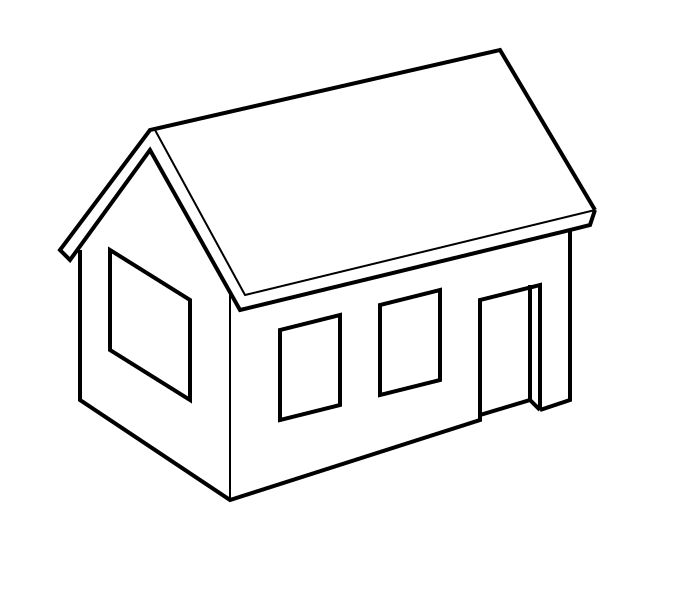
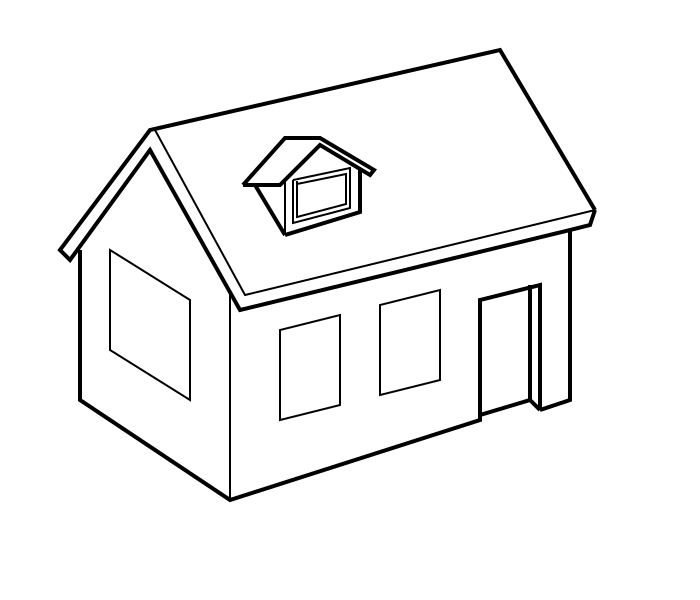
added smaller roof

diff --git a/house.py b/house.py
@@ -1,3 +1,4 @@
+
 import math
 
 import cairo
@@ -57,7 +58,6 @@ ctx.line_to(595,160)
 ctx.stroke()
 
 #Window in Shade
-ctx.set_line_width(4)
 ctx.translate(-10,0)
 ctx.move_to(120,300)
 ctx.line_to(200,350)
@@ -81,6 +81,62 @@ ctx.line_to(320,265)
 ctx.line_to(320,355)
 ctx.line_to(260,370)
 ctx.close_path()
+ctx.stroke()
+
+
+
+ctx.move_to(165,210)#1
+ctx.line_to(165,155)#4
+ctx.stroke()
+
+# window
+ctx.move_to(173,155)#4
+ctx.line_to(230,143)#6
+ctx.line_to(230,183)#6
+ctx.line_to(173,198)#1
+ctx.line_to(173,155)#4
+
+ctx.move_to(173 +4,155+4)#4
+ctx.line_to(230 - 4,143 + 6)#6
+ctx.line_to(230 -4,183 - 4)#6
+ctx.line_to(173 + 4,198 - 6)#1
+ctx.line_to(173 + 4,155 + 4)#4
+
+ctx.move_to(177,156)
+ctx.line_to(177, 176)
+ctx.stroke()
+
+
+
+# roof
+
+ctx.move_to(165,210)#1
+ctx.line_to(135,160)#2
+ctx.line_to(123,160)#3
+ctx.line_to(160,160)#4
+ctx.line_to(200,120)#5
+ctx.line_to(250,150)#6
+ctx.line_to(254,145)#7
+ctx.line_to(200,113)#8
+ctx.line_to(165,113)#9
+ctx.line_to(123,160)#3
+
+ctx.move_to(165,210)#1
+ctx.line_to(240,187)#6
+ctx.line_to(240,143)#6
+ctx.set_line_width(4)
+
+
+
+
+
+
+
+
+
+
+
+
 ctx.stroke()
 
 surface.write_to_png("house.png")
